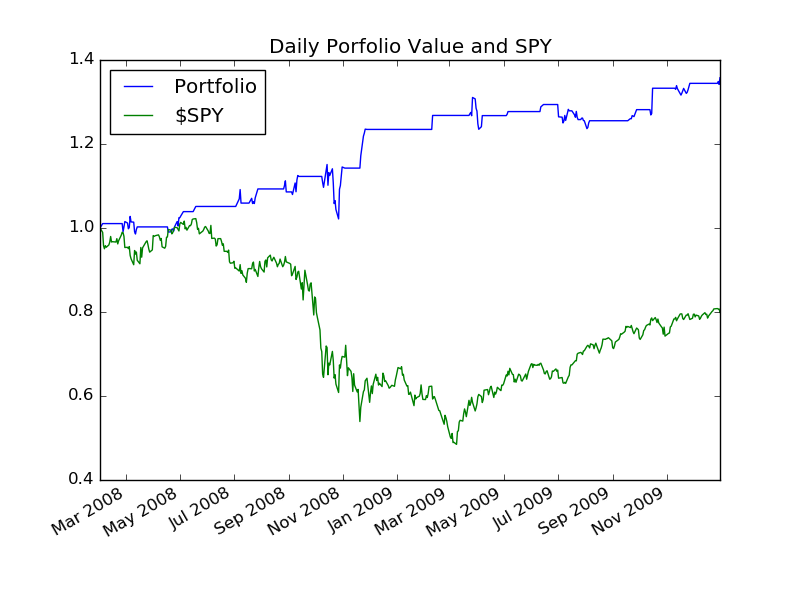
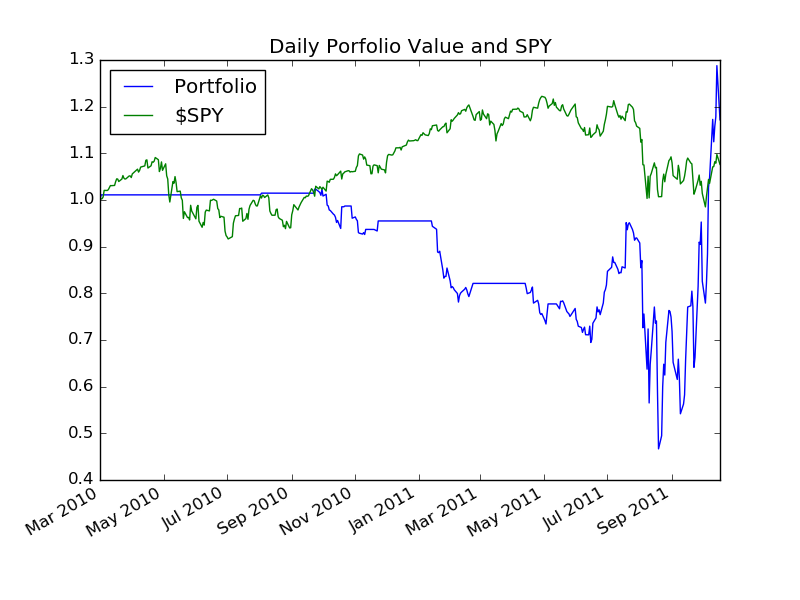
handing in code

diff --git a/mc2_p2/my_strategy.py b/mc2_p2/my_strategy.py
@@ -66,18 +66,18 @@ def get_rsi_strategy(df):
 
         #hold lowest and highest values in dataset, double down on lowest
         if save_low_rsi > df.ix[i]['rsi']:
-            save_low_rsi =  df.ix[i]['rsi']
+            save_low_rsi = df.ix[i]['rsi']
         elif save_high_rsi < df.ix[i]['rsi']:
             save_high_rsi = df.ix[i]['rsi']
 
-        if (df.ix[i]['rsi'] < 31) and (invested_short == False) \
+        if (df.ix[i]['rsi'] < 33) and (invested_short == False) \
                 and (i != len(df)):
              out_orders.append([df.index[i],'IBM', 'BUY', 'Short', 'SELL'])
              invested_short = True
-        elif (df.ix[i]['rsi'] > 36) and (invested_short == True):
+        elif (df.ix[i]['rsi'] > 35) and (invested_short == True):
             out_orders.append([df.index[i], 'IBM', 'SELL', 'Short', 'BUY'])
             invested_short = False
-        elif (df.ix[i]['rsi'] > 71) and (invested_long == False) \
+        elif (df.ix[i]['rsi'] > 72) and (invested_long == False) \
                 and (i != len(df)):
              out_orders.append([df.index[i],'IBM', 'BUY', 'Long', 'BUY'])
              invested_long = True
@@ -102,38 +102,24 @@ def test_run():
     out_dates = pd.date_range('2009-12-31', '2011-12-31') #Add in sample and out of sample dates
 
     symbols = list(['IBM'])
-    df = get_data(symbols, in_dates, addSPY=True)
+    df = get_data(symbols, out_dates, addSPY=True)
     df_rsi = df.copy()
     df_rsi.drop(['SPY'], axis=1, inplace=True)
 
-    #add tech symbols - APPL, GOOGL, CRM
-    tech_symbol = list(['GOOG'])
-    df_tech = get_data(tech_symbol, in_dates, addSPY=True)
-    df_tech_rsi = df_tech.copy()
-    df_tech_rsi.drop(['SPY'], axis=1, inplace=True)
 
     #COMPUTE MY STRATEGY - RELATIVE STRENGTH INDEX (RSI) & RELATIVE STRENGTH (RS)
     # 1. Compute change
     df_rsi['change'] = df_rsi['IBM'].shift(1) - df_rsi['IBM']
     df_rsi['change_prop'] = df_rsi['IBM'].shift(1) /df_rsi['IBM']
 
-    df_tech_rsi['change'] = df_tech_rsi['GOOG'].shift(1) - df_tech_rsi['GOOG']
-    df_tech_rsi['change_prop'] = df_tech_rsi['GOOG'].shift(1) /df_tech_rsi['GOOG']
-
     # 2. Compute Gain and Loss
     df_rsi['gain'] = df_rsi['change'].apply(lambda x: abs(x) if x > 0 else 0)
     df_rsi['loss'] = df_rsi['change'].apply(lambda x: abs(x) if x < 0 else 0)
 
-    df_tech_rsi['gain'] = df_tech_rsi['change'].apply(lambda x: abs(x) if x > 0 else 0)
-    df_tech_rsi['loss'] = df_tech_rsi['change'].apply(lambda x: abs(x) if x < 0 else 0)
-
     # 3. Compute rolling mean Average Gain and Loss
     # #lower window to increase the sensitivity
-    df_rsi['rm_gain'] = get_rolling_mean(df_rsi['gain'], window=14)
-    df_rsi['rm_loss'] = get_rolling_mean(df_rsi['loss'], window=14)
-
-    df_tech_rsi['rm_gain'] = get_rolling_mean(df_tech_rsi['gain'], window=14)
-    df_tech_rsi['rm_loss'] = get_rolling_mean(df_tech_rsi['loss'], window=14)
+    df_rsi['rm_gain'] = get_rolling_mean(df_rsi['gain'], window=20)
+    df_rsi['rm_loss'] = get_rolling_mean(df_rsi['loss'], window=20)
 
     # 5. Compute RS
     df_rsi['rs'] = df_rsi['rm_gain']/df_rsi['rm_loss']
@@ -144,7 +130,7 @@ def test_run():
     # 7 Add signals for buy and sell
     #df_rsi.columns =['Price', 'change', 'gain', 'loss', 'rm_gain', 'rm_loss', 'rs', 'rsi']
     orders = get_rsi_strategy(df_rsi)
-    orders.to_csv('./output/rsi_orders.csv')
+    orders.to_csv('./output/rsi_orders (in sample).csv')
 
     #df_rsi.reset_index(inplace=True)
 
@@ -173,7 +159,7 @@ def test_run():
     ax.legend(loc='lower left', labels=['IBM', 'RSI'])
     # # #plt.show()
     fig = ax.get_figure()
-    fig.savefig('output/rsi_strategy.png')
+    fig.savefig('output/rsi_strategy (in sample).png')
 
 
     # #prep orders for market simulator
